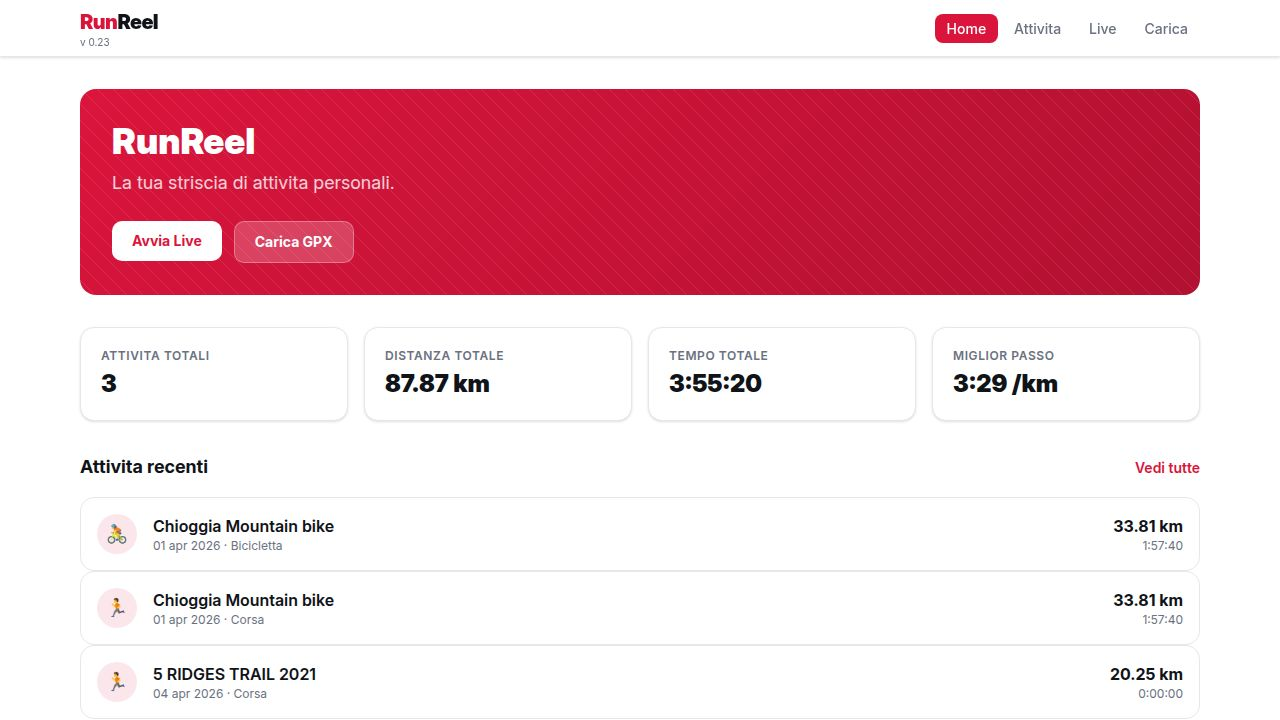
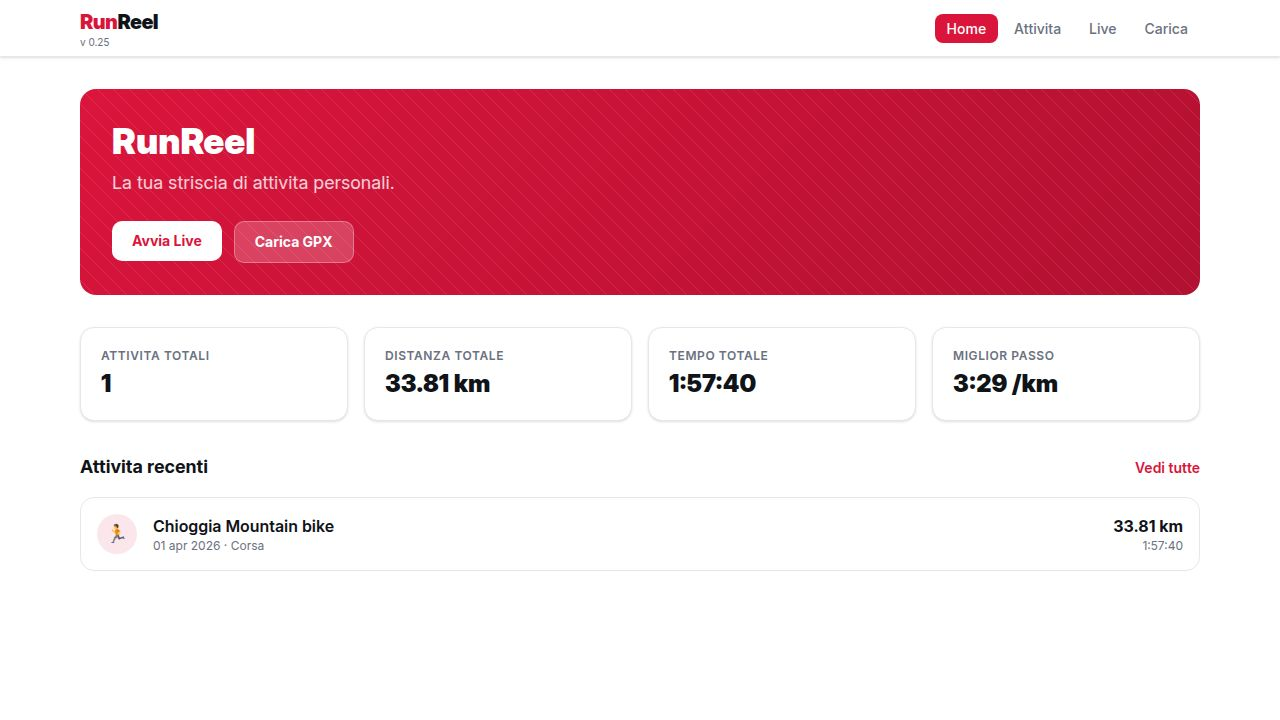
Fix map display issues and update version
Correctly categorize MapLibre line properties and improve fallback rendering for offline maps.

Replit-Commit-Author: Agent
Replit-Commit-Session-Id: efa82b7d-0b40-4398-80ee-6b81939e2ba3
Replit-Commit-Checkpoint-Type: full_checkpoint
Replit-Commit-Event-Id: d2b89628-21b2-4c97-ba9f-c2c36886d095
Replit-Commit-Screenshot-Url: https://storage.googleapis.com/screenshot-production-us-central1/812a62da-d98f-4e7f-8ae3-17dfc6a6272b/efa82b7d-0b40-4398-80ee-6b81939e2ba3/rBGml2M
Replit-Helium-Checkpoint-Created: true

diff --git a/artifacts/runreel/src/components/AnimatedMap3D.tsx b/artifacts/runreel/src/components/AnimatedMap3D.tsx
@@ -474,12 +474,11 @@ export default function AnimatedMap3D({ points, distanceKm, elevationGainM, dura
             type: "geojson",
             data: { type: "FeatureCollection", features: [{ type: "Feature", properties: {}, geometry: { type: "LineString", coordinates: coords } }] },
           });
-          map.addLayer({ id: "route-ghost", type: "line", source: "route-ghost", paint: { "line-color": "rgba(255,255,255,0.25)", "line-width": 4, "line-cap": "round", "line-join": "round" } });
+          map.addLayer({ id: "route-ghost", type: "line", source: "route-ghost", layout: { "line-cap": "round", "line-join": "round" }, paint: { "line-color": "rgba(255,255,255,0.25)", "line-width": 4 } });
 
           // Speed-colored segments — compute inline so we don't depend on segmentData ref timing
           const segFeatures = buildSegmentFeatures();
           const speedFeatures = segFeatures.length > 0 ? segFeatures : (() => {
-            // Fallback: color by position along route (green→red)
             const n = points.length - 1;
             return points.slice(0, -1).map((p, i) => ({
               type: "Feature",
@@ -488,10 +487,10 @@ export default function AnimatedMap3D({ points, distanceKm, elevationGainM, dura
             }));
           })();
           map.addSource("route-speed", { type: "geojson", data: { type: "FeatureCollection", features: speedFeatures } });
-          map.addLayer({ id: "route-speed", type: "line", source: "route-speed", paint: { "line-color": ["get", "color"], "line-width": 5, "line-cap": "round", "line-join": "round" } });
+          map.addLayer({ id: "route-speed", type: "line", source: "route-speed", layout: { "line-cap": "round", "line-join": "round" }, paint: { "line-color": ["get", "color"], "line-width": 5 } });
 
           map.addSource("route-progress", { type: "geojson", data: { type: "FeatureCollection", features: [] } });
-          map.addLayer({ id: "route-progress", type: "line", source: "route-progress", paint: { "line-color": "#ffffff", "line-width": 4, "line-cap": "round", "line-join": "round", "line-opacity": 0.9 } });
+          map.addLayer({ id: "route-progress", type: "line", source: "route-progress", layout: { "line-cap": "round", "line-join": "round" }, paint: { "line-color": "#ffffff", "line-width": 4, "line-opacity": 0.9 } });
 
           map.addSource("runner", { type: "geojson", data: { type: "Feature", properties: {}, geometry: { type: "Point", coordinates: coords[0] } } });
           map.addLayer({ id: "runner-outer", type: "circle", source: "runner", paint: { "circle-radius": 10, "circle-color": "#ffffff", "circle-stroke-width": 3, "circle-stroke-color": "#E11D48" } });
@@ -558,15 +557,28 @@ export default function AnimatedMap3D({ points, distanceKm, elevationGainM, dura
   }, [stopAnimation, points]);
 
   // ── Canvas fallback if WebGL unavailable ──
-  if (webglFailed && segmentData.current) {
-    const { speeds, minSpeed, maxSpeed, cumDist } = segmentData.current;
+  if (webglFailed) {
+    // Compute inline if segmentData ref isn't ready yet (avoids black screen race)
+    const data = segmentData.current ?? (() => {
+      const speeds: number[] = [];
+      const cumDist: number[] = [0];
+      let totalDist = 0;
+      for (let i = 1; i < points.length; i++) {
+        const dist = haversineM(points[i - 1], points[i]);
+        totalDist += dist;
+        cumDist.push(totalDist);
+        speeds.push(dist);
+      }
+      const valid = speeds.filter((s) => s > 0);
+      return { speeds, minSpeed: valid.length ? Math.min(...valid) : 0, maxSpeed: valid.length ? Math.max(...valid) : 1, cumDist };
+    })();
     return (
       <CanvasFallback
         points={points}
-        segSpeeds={speeds}
-        minSpeed={minSpeed}
-        maxSpeed={maxSpeed}
-        cumDist={cumDist}
+        segSpeeds={data.speeds}
+        minSpeed={data.minSpeed}
+        maxSpeed={data.maxSpeed}
+        cumDist={data.cumDist}
         distanceKm={distanceKm}
         elevationGainM={elevationGainM}
         durationSecs={durationSecs}

diff --git a/artifacts/runreel/src/components/Layout.tsx b/artifacts/runreel/src/components/Layout.tsx
@@ -86,7 +86,7 @@ export default function Layout({ children }: { children: React.ReactNode }) {
                 <span className="text-primary">Run</span>
                 <span className="text-foreground">Reel</span>
               </span>
-              <span className="text-[10px] font-normal text-muted-foreground">v 0.24</span>
+              <span className="text-[10px] font-normal text-muted-foreground">v 0.25</span>
             </span>
           </Link>
           <nav className="flex items-center gap-1">
